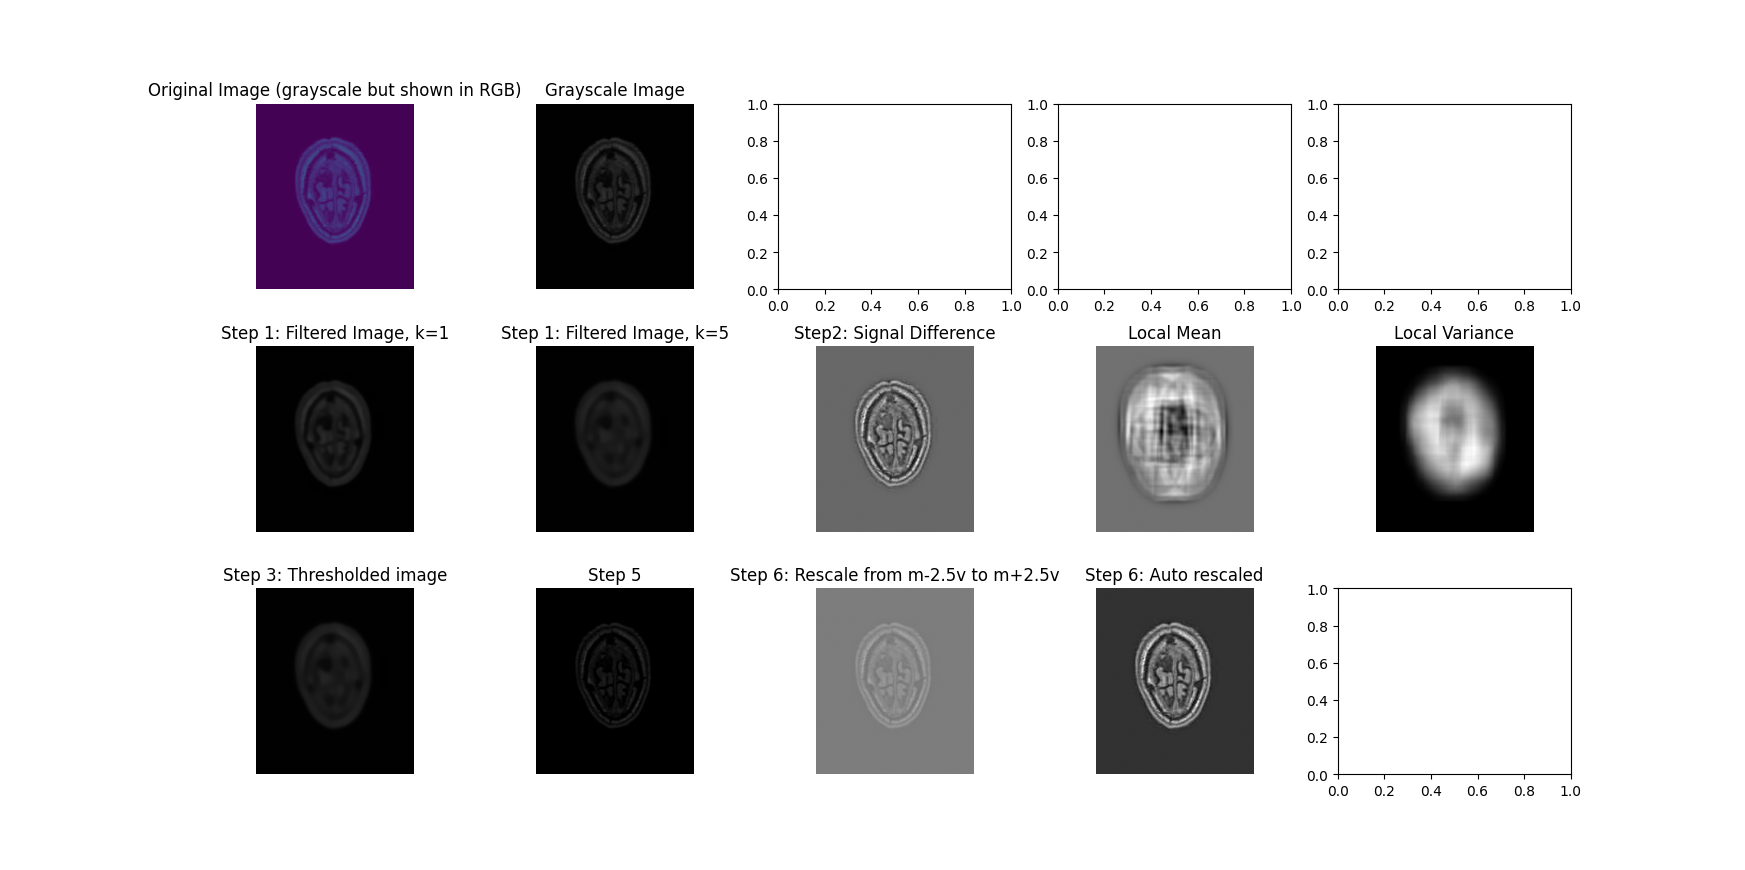
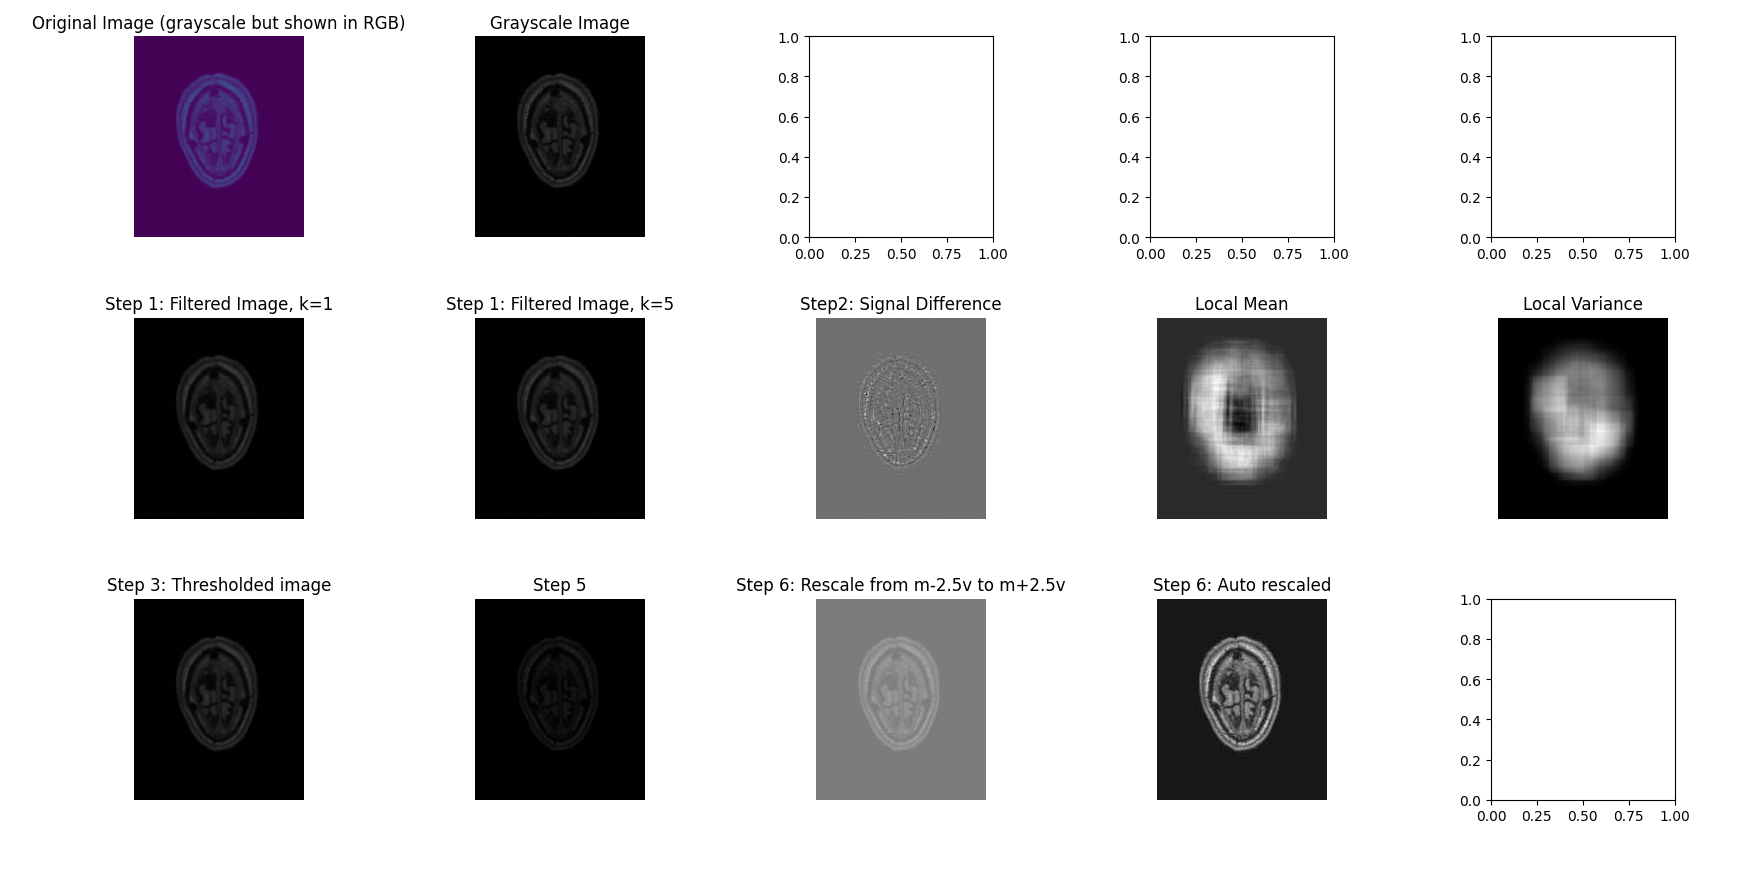
edge preserve filter v3

diff --git a/src/filter.py b/src/filter.py
@@ -160,14 +160,55 @@ def cluster_filter_v2(image, alpha=0.5, beta=None, k=5, kernel_size=11):
                     tuso = np.sum(
                         patch
                         * weight
-                        * np.exp(-beta[i, j] * (patch - image[i, j]) ** 2)
+                        * np.exp(-beta[i, j] * np.power(patch - image[i, j], 2))
                     )
                     mauso = np.sum(
-                        weight * np.exp(-beta[i, j] * (patch - image[i, j]) ** 2)
+                        weight * np.exp(-beta[i, j] * np.power(patch - image[i, j], 2))
                     )
                     filtered_image[i, j] = tuso / mauso
                     bar()
             image = filtered_image.copy()
+
+    return filtered_image
+
+
+def cluster_filter_v3(
+    image, gausian_filtered, alpha=0.5, beta=None, k=5, kernel_size=11
+):
+    """
+    edge_preserve_filter_v1 calculate weight for all pixel of the image,
+    since the weight is close to 0 as the distance is far from the current pixel
+    v2 compute weight for only the pixels close to the current pixel
+
+    """
+
+    height, width = image.shape[:2]
+    filtered_image = np.zeros((height, width))
+    half_kernel = kernel_size // 2
+
+    with alive_bar(height * width, title="Filtering") as bar:
+        for i in range(height):
+            for j in range(width):
+                min_x = max(0, i - half_kernel)
+                max_x = min(height, i + half_kernel + 1)
+                min_y = max(0, j - half_kernel)
+                max_y = min(width, j + half_kernel + 1)
+                patch = image[min_x:max_x, min_y:max_y]
+                weight = compute_weight_patch(
+                    i, j, min_x, max_x, min_y, max_y, alpha=alpha
+                )
+                y = gausian_filtered[i, j]
+                for K in range(k):
+                    tuso = np.sum(
+                        patch * weight * np.exp(-beta[i, j] * np.power(patch - y, 2))
+                    )
+                    mauso = np.sum(
+                        weight * np.exp(-beta[i, j] * np.power(patch - y, 2))
+                    )
+                    y = tuso / mauso
+                filtered_image[i, j] = y
+                bar()
+        image = filtered_image.copy()
 
     return filtered_image
 
@@ -202,8 +243,8 @@ def edge_preserve_filter(image, k=5, alpha=0.5, kernel_size=11):
             filtered_image, alpha, kernel_size=kernel_size
         )
         # plot_img(axs[0, 2], starting_image, "Starting Image", cmap=plt.get_cmap("gray"))
-        filtered_image = cluster_filter_v2(
-            starting_image, alpha, beta, kernel_size=kernel_size
+        filtered_image = cluster_filter_v3(
+            image, starting_image, alpha, beta, kernel_size=kernel_size
         )
         if i == 0:
             plot_img(
@@ -217,6 +258,77 @@ def edge_preserve_filter(image, k=5, alpha=0.5, kernel_size=11):
         axs[1, 1],
         filtered_image,
         f"Step 1: Filtered Image, k={k}",
+        cmap=plt.get_cmap("gray"),
+    )
+
+    Image_i = filtered_image
+    Image_d = image - Image_i  # signal difference
+    plot_img(
+        axs[1, 2],
+        Image_d,
+        "Step2: Signal Difference",
+        cmap=plt.get_cmap("gray"),
+        vmin=None,
+        vmax=None,
+    )
+
+    M, V = compute_local_mean_var(Image_d)
+    plot_img(
+        axs[1, 3], M, "Local Mean", cmap=plt.get_cmap("gray"), vmin=None, vmax=None
+    )
+    plot_img(
+        axs[1, 4], V, "Local Variance", cmap=plt.get_cmap("gray"), vmin=None, vmax=None
+    )
+
+    threshold = V * 2.5
+    Image_m = np.where(np.abs(Image_d - M) < threshold, Image_i, image)
+    plot_img(axs[2, 0], Image_m, "Step 3: Thresholded image", cmap=plt.get_cmap("gray"))
+
+    s = 0.5
+    Image_o = image - s * Image_m
+    plot_img(axs[2, 1], Image_o, "Step 5", cmap=plt.get_cmap("gray"))
+
+    m = np.mean(Image_o)
+    v = np.var(Image_o, mean=m)
+    lower = m - 2.5 * v
+    upper = m + 2.5 * v
+    Io_rescaled = (Image_o - lower) / (upper - lower)
+    plot_img(
+        axs[2, 2],
+        Io_rescaled,
+        "Step 6: Rescale from m-2.5v to m+2.5v",
+        cmap=plt.get_cmap("gray"),
+        vmin=0,
+        vmax=1,
+    )
+
+    plot_img(
+        axs[2, 3],
+        Image_o,
+        "Step 6: Auto rescaled",
+        cmap=plt.get_cmap("gray"),
+        vmin=None,
+        vmax=None,
+    )
+    plot_img(
+        axs2[1],
+        Image_o,
+        "Step 6: Auto rescaled",
+        cmap=plt.get_cmap("gray"),
+        vmin=None,
+        vmax=None,
+    )
+    return Image_o
+
+
+def enhance_with_gausian_filter(image, k=5, alpha=0.5, kernel_size=11):
+
+    filtered_image, beta = get_starting_point_v2(image, alpha, kernel_size=kernel_size)
+
+    plot_img(
+        axs[1, 1],
+        filtered_image,
+        f"Step 1: gausian Filtered Image",
         cmap=plt.get_cmap("gray"),
     )
 

diff --git a/src/main.py b/src/main.py
@@ -14,42 +14,49 @@ from filter_rgb import *
 """
 change here
 """
-image_path = (  # MRI image
-    "./assets/MRI/ADNI_002_S_1070_130146_ACPC/ADNI_002_S_1070_130146_ACPC_142.jpg"
-)
+# image_path = (  # MRI image
+#     "./assets/MRI/ADNI_002_S_1070_130146_ACPC/ADNI_002_S_1070_130146_ACPC_142.jpg"
+# )
 # image_path = (
 #     "./assets/MRI/ADNI_002_S_1155_274154_ACPC/ADNI_002_S_1155_274154_ACPC_150.jpg"
 # )
 # image_path = "./assets/camera_man.jpeg"
-# image_path = "./assets/MRI/Test.jpg"
+image_path = "./assets/MRI/Test.jpg"
 # image_path = "./assets/black_white.jpg"
 # image_path = "./assets/Lena_noisy.jpeg"
+# image_path = "./assets/DIP3E_Problem_Figures/CH10_Problem_Figures/FigP1007(b).tif"
+# image_path = "./assets/salt_and_pepper.png"
 image_name = image_path.split("/")[-1]
 output_path = "./output/" + image_name
 alpha = 0.5
 k = 5  #! k is 5 in the original paper
 
-rgb_mode = False
-if rgb_mode == False:
-    image = cv2.imread(image_path, cv2.IMREAD_GRAYSCALE)
-    # image = (image / 255.0 - 0.5) * 2
-    image_gray = image
-    plot_img(axs[0, 0], image, "Original Image (grayscale but shown in RGB)")
-    plot_img(axs[0, 1], image_gray, "Grayscale Image", cmap=plt.get_cmap("gray"))
-    plot_img(axs2[0], image_gray, "Grayscale Image", cmap=plt.get_cmap("gray"))
+gausian_test = False
 
+image = cv2.imread(image_path, cv2.IMREAD_GRAYSCALE)
+# image = (image / 255.0 - 0.5) * 2
+image_gray = image
+plot_img(axs[0, 0], image, "Original Image (grayscale but shown in RGB)")
+plot_img(axs[0, 1], image_gray, "Grayscale Image", cmap=plt.get_cmap("gray"))
+plot_img(axs2[0], image_gray, "Grayscale Image", cmap=plt.get_cmap("gray"))
+
+if gausian_test == False:
     filtered_image = edge_preserve_filter(image_gray, k=k, alpha=alpha, kernel_size=11)
-else:  # this is not finished
-    image = cv2.imread(image_path)
-    image = cv2.cvtColor(image, cv2.COLOR_BGR2RGB)
-    image_gray = grayscale(image)
-    plot_img(axs[0, 0], image, "Original Image")
-    plot_img(axs[0, 1], image_gray, "Grayscale Image", cmap=plt.get_cmap("gray"))
-    edge_preserve_filter_rgb(image, image_gray, k=k, alpha=alpha, kernel_size=11)
+else:
+    filtered_image = enhance_with_gausian_filter(
+        image_gray, k=k, alpha=alpha, kernel_size=11
+    )
+
 
 plt.tight_layout()
 plt.show()
-pickle.dump(fig, open(output_path + ".pickle", "wb"))
-fig.savefig(output_path + ".png")
-pickle.dump(fig2, open(output_path + "2.pickle", "wb"))
-fig2.savefig(output_path + "2.png")
+if gausian_test == False:
+    pickle.dump(fig, open(output_path + ".pickle", "wb"))
+    fig.savefig(output_path + ".png")
+    pickle.dump(fig2, open(output_path + "2.pickle", "wb"))
+    fig2.savefig(output_path + "2.png")
+else:
+    pickle.dump(fig, open(output_path + "_gs.pickle", "wb"))
+    fig.savefig(output_path + "_gs.png")
+    pickle.dump(fig2, open(output_path + "_gs2.pickle", "wb"))
+    fig2.savefig(output_path + "_gs2.png")

diff --git a/src/compare_filter.py b/src/compare_filter.py
@@ -1,0 +1,83 @@
+from math import e
+import cv2
+import matplotlib
+import matplotlib.axes
+import numpy as np
+import matplotlib.pyplot as plt
+import pickle
+
+from filter import *
+
+# from plot_helper import *
+from filter_rgb import *
+
+"""
+change here
+"""
+# image_path = (  # MRI image
+#     "./assets/MRI/ADNI_002_S_1070_130146_ACPC/ADNI_002_S_1070_130146_ACPC_142.jpg"
+# )
+# image_path = (
+#     "./assets/MRI/ADNI_002_S_1155_274154_ACPC/ADNI_002_S_1155_274154_ACPC_150.jpg"
+# )
+# image_path = "./assets/camera_man.jpeg"
+# image_path = "./assets/MRI/Test.jpg"
+image_path = "./assets/black_white.jpg"
+# image_path = "./assets/Lena_noisy.jpeg"
+# image_path = "./assets/DIP3E_Problem_Figures/CH10_Problem_Figures/FigP1007(b).tif"
+# image_path = "./assets/salt_and_pepper.png"
+image_name = image_path.split("/")[-1]
+output_path = "./output/" + image_name
+k = 3  #! k is 5 in the original paper
+
+gausian_test = True
+
+fig, axs = plt.subplots(2, 4)
+
+
+def plot_img(ax: matplotlib.axes.Axes, img, title, cmap=None, vmin=0, vmax=255):
+    ax.imshow(img, cmap=cmap, vmin=vmin, vmax=vmax)
+    ax.set_title(title)
+    ax.axis("off")
+
+
+image = cv2.imread(image_path, cv2.IMREAD_GRAYSCALE)
+# image = (image / 255.0 - 0.5) * 2
+image_gray = image
+plot_img(axs[0, 0], image, "Original Image (grayscale but shown in RGB)")
+plot_img(axs[1, 0], image_gray, "Grayscale Image", cmap=plt.get_cmap("gray"))
+
+alphas = [0.5, 0.25, 0.125]
+
+index = 0
+for alpha in alphas:
+    starting_image, beta = get_starting_point_v2(
+        image_gray, alpha=alpha, kernel_size=11
+    )
+
+    cluster_filtered_image_v3 = cluster_filter_v3(
+        image, starting_image, k=k, beta=beta, alpha=alpha, kernel_size=11
+    )
+
+    gausian_filtered_image = starting_image
+
+    # plot_img(axs[1, 0], cluster_filtered_image, "Cluster fiter", cmap=plt.get_cmap("gray"))
+    index += 1
+    plot_img(
+        axs[0, index],
+        gausian_filtered_image,
+        f"Gausian fiter a={alpha}",
+        cmap=plt.get_cmap("gray"),
+    )
+
+    plot_img(
+        axs[1, index],
+        cluster_filtered_image_v3,
+        f"Cluster fiter a={alpha}",
+        cmap=plt.get_cmap("gray"),
+    )
+
+plt.tight_layout()
+plt.show()
+
+fig.savefig(output_path + "_filter_cmp.png")

diff --git a/src/plot_helper.py b/src/plot_helper.py
@@ -2,6 +2,7 @@ import matplotlib.pyplot as plt
 import matplotlib.axes
 
 fig, axs = plt.subplots(3, 5)
+fig.tight_layout()
 
 fig2, axs2 = plt.subplots(1, 2, figsize=(16, 9))
 
